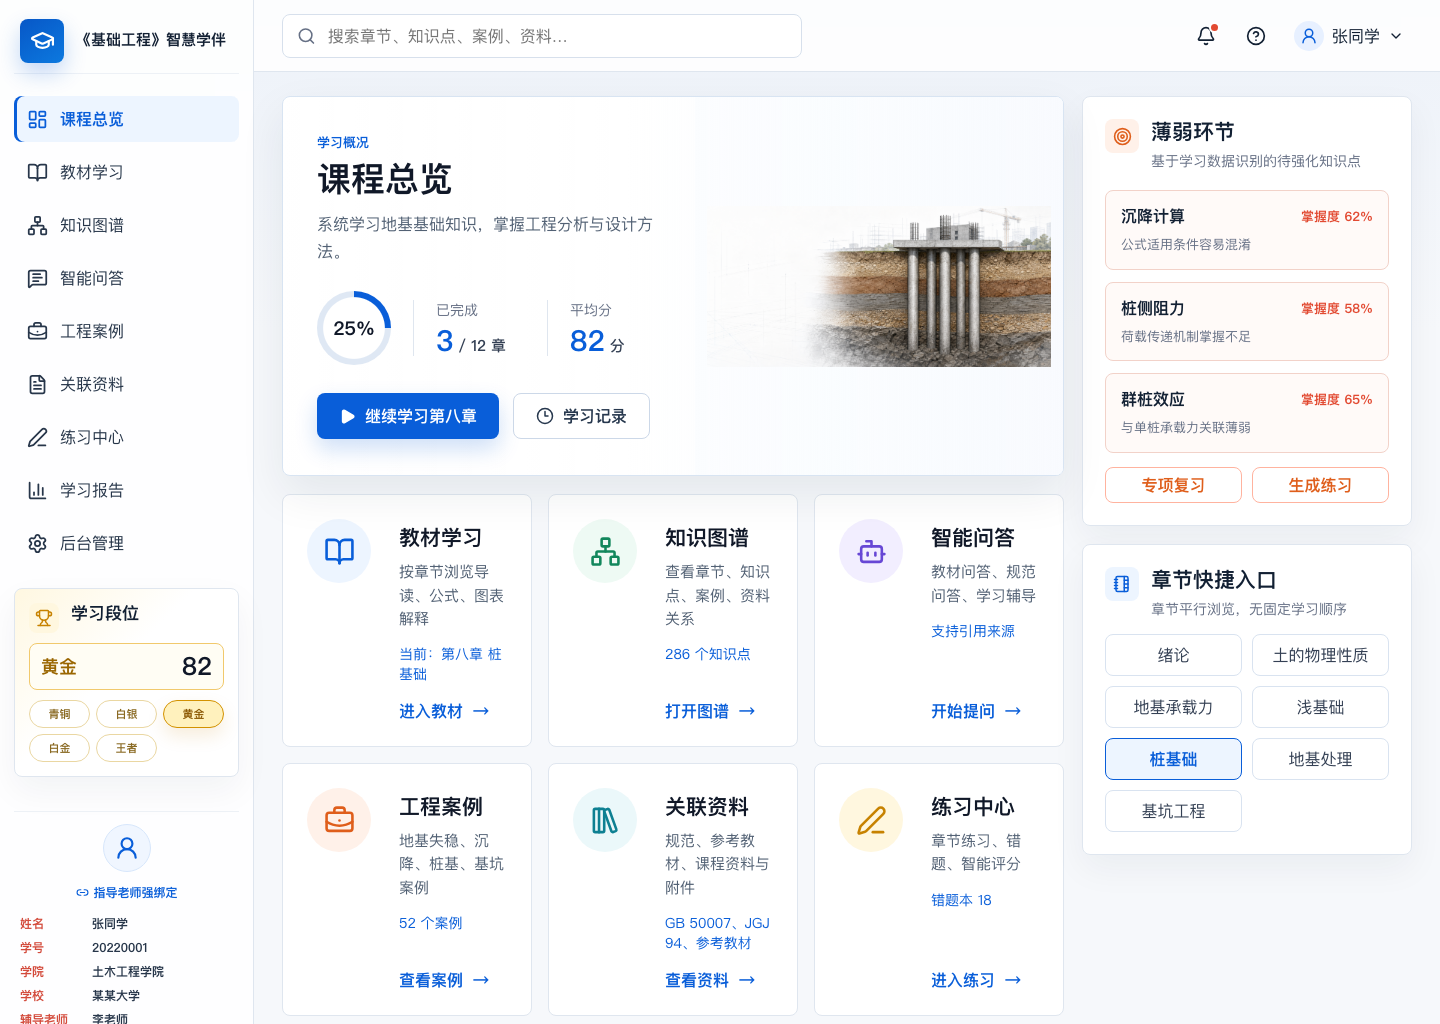
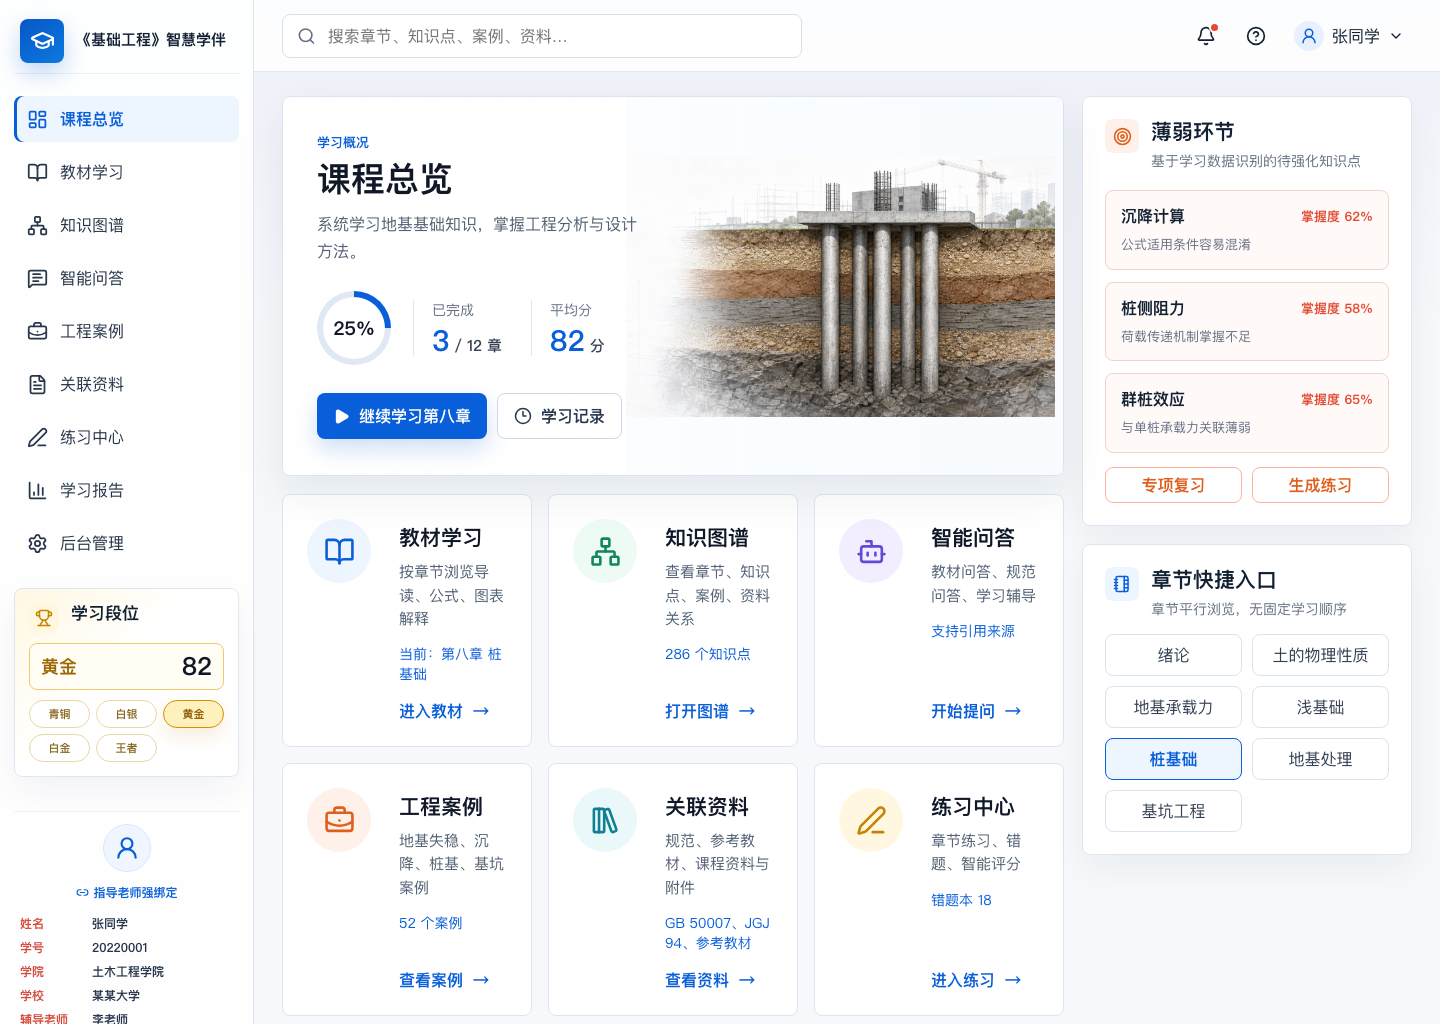
Reduce hero image whitespace

diff --git a/src/styles.css b/src/styles.css
@@ -331,7 +331,7 @@ button {
   position: relative;
   display: grid;
   min-height: 292px;
-  grid-template-columns: minmax(380px, 0.95fr) minmax(330px, 0.85fr);
+  grid-template-columns: minmax(390px, 0.95fr) minmax(370px, 0.95fr);
   overflow: hidden;
   border: 1px solid #d8e4f2;
   border-radius: 8px;
@@ -383,6 +383,7 @@ button {
   display: grid;
   width: 74px;
   height: 74px;
+  flex: 0 0 74px;
   place-items: center;
   border-radius: 50%;
   background:
@@ -394,9 +395,10 @@ button {
 }
 
 .metric {
-  min-width: 112px;
+  min-width: 96px;
+  flex: 0 0 auto;
   border-left: 1px solid var(--line);
-  padding-left: 22px;
+  padding-left: 18px;
 }
 
 .metric span {
@@ -420,8 +422,13 @@ button {
 
 .heroActions {
   display: flex;
-  gap: 14px;
+  gap: 10px;
   flex-wrap: wrap;
+}
+
+.heroActions .primaryButton,
+.heroActions .ghostButton {
+  padding: 0 16px;
 }
 
 .primaryButton,
@@ -458,15 +465,16 @@ button {
 }
 
 .heroImage {
-  width: 100%;
+  width: 112%;
   height: 100%;
   min-height: 292px;
   object-fit: contain;
-  object-position: center;
+  object-position: center right;
   background:
     linear-gradient(90deg, rgba(255, 255, 255, 0.1), rgba(247, 250, 254, 0.72)),
     #fbfdff;
-  padding: 10px 12px;
+  margin-left: -12%;
+  padding: 4px 8px 4px 0;
 }
 
 .moduleGrid {

diff --git a/src/App.jsx b/src/App.jsx
@@ -25,7 +25,7 @@ import {
   Trophy,
   UserRound,
 } from "lucide-react";
-import foundationSection from "./assets/foundation-section.png";
+import foundationSection from "./assets/foundation-section-compact.png";
 
 const navItems = [
   { id: "overview", label: "课程总览", icon: LayoutDashboard },